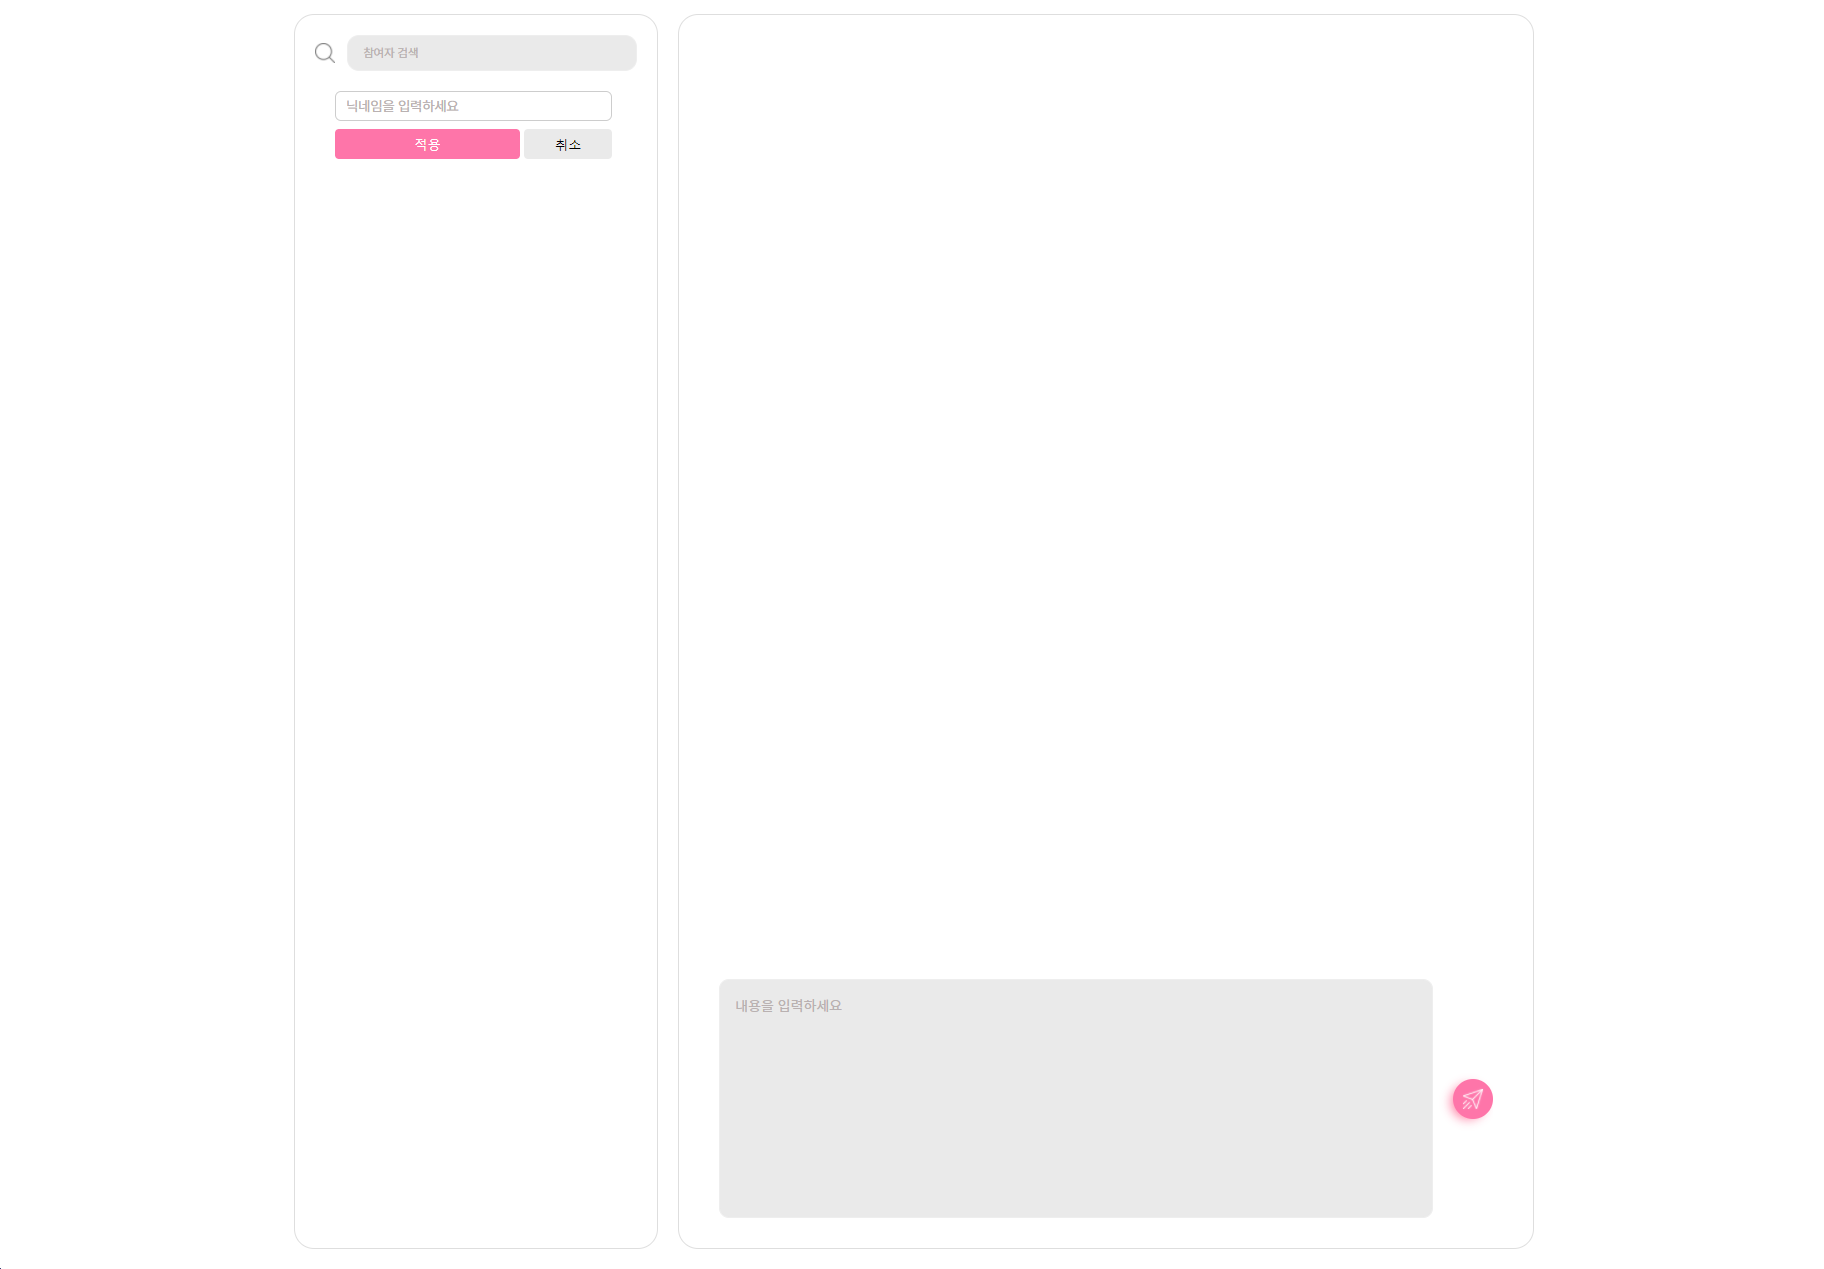
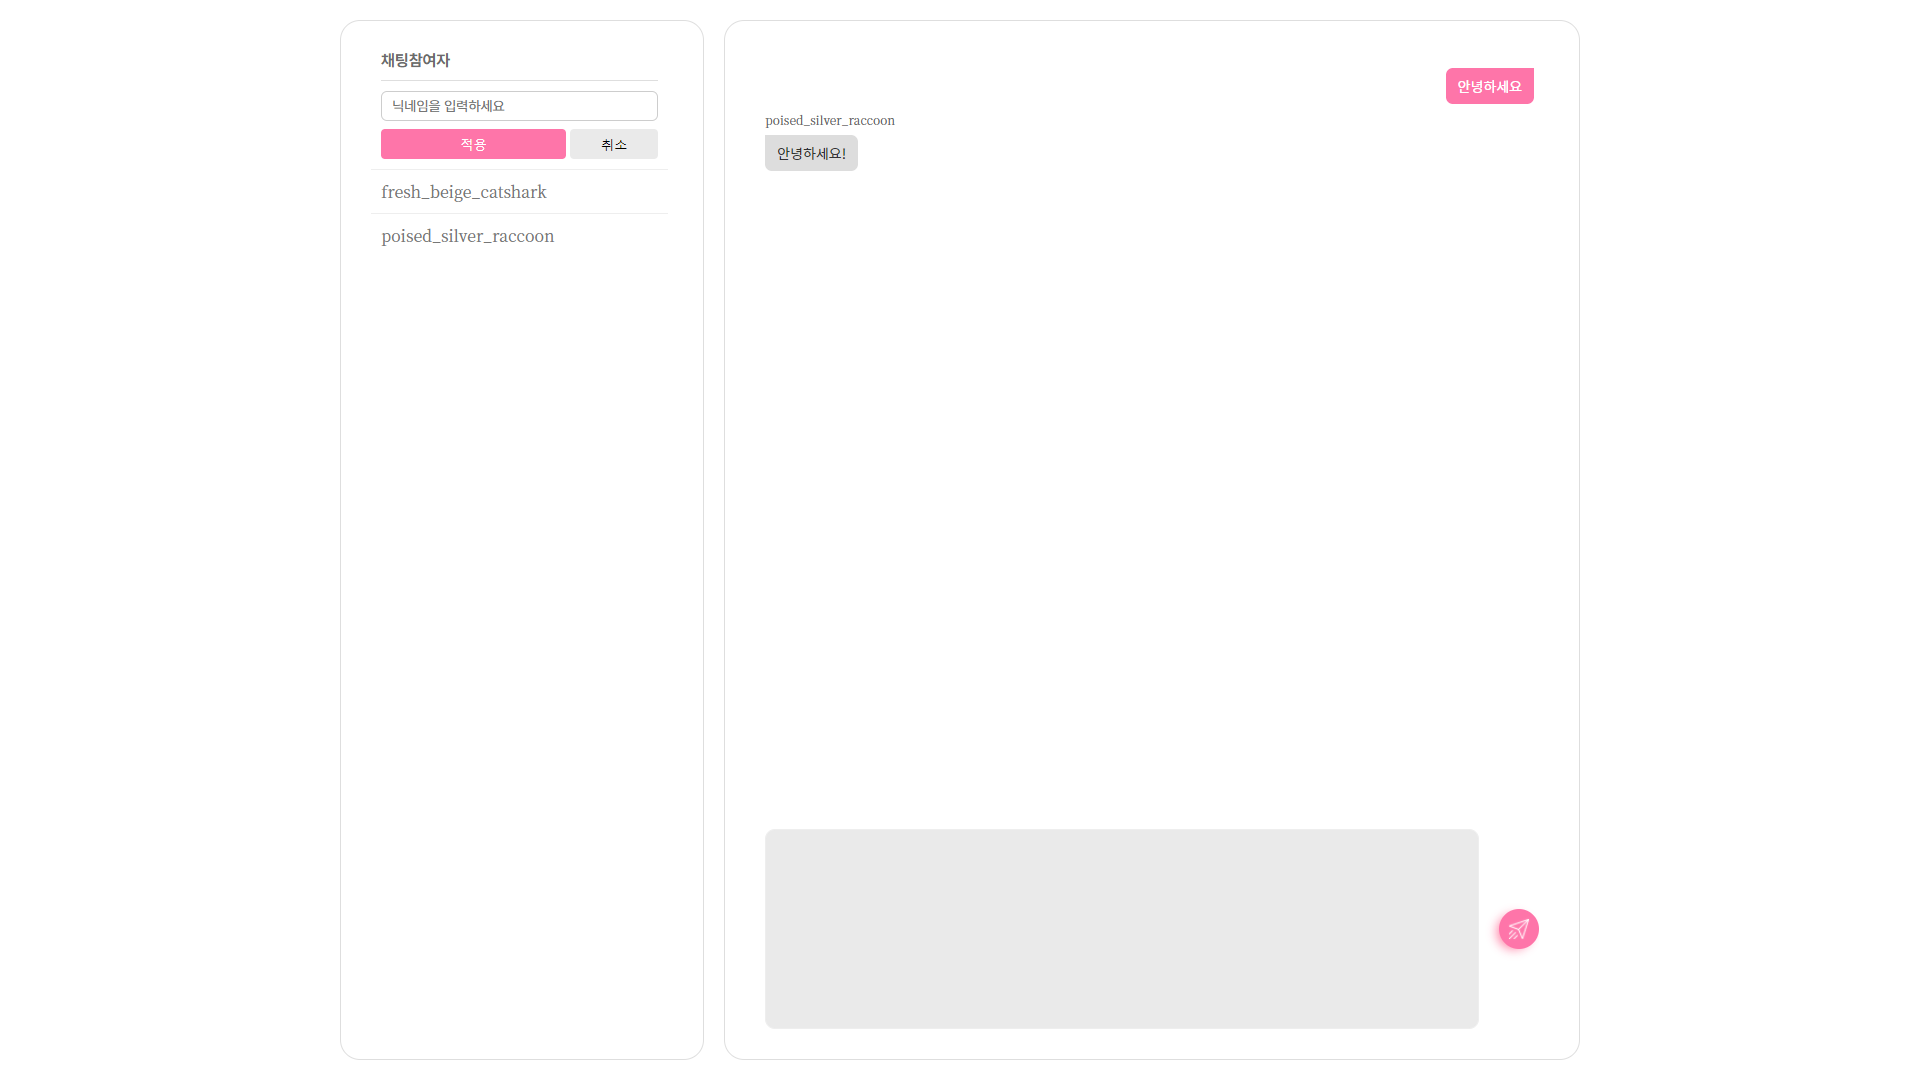
README 수정 및 css 일부 수정

diff --git a/public/css/index.css b/public/css/index.css
@@ -13,7 +13,7 @@ html{
 }
 ::-webkit-scrollbar-thumb {
   border-radius: 8px;
-  background-color: rgba(101, 190, 230, 0.3);
+  background-color: #ea397d38;
 }
 /*  웹킷(크롬, 사파리) button outline 제거 */
 textarea:focus {
@@ -129,7 +129,7 @@ header{
   width: auto;
 }
 #text>div>div{
-  font-size: 12px;
+  font-size: 14px;
   padding: 8px 12px;
   max-width: 40%;
   margin: 0.5em 0;

diff --git a/README.md b/README.md
@@ -35,11 +35,13 @@ programming: [김기현](https://github.com/kiheyunkim)
 
 ## feature
 
-1. 채팅자가 접속하면 이름은 램덤하게 생성됩니다.
+1. 채팅자가 접속하면 이름은 랜덤하게 생성됩니다.
     * unique-names-generator 모듈 사용
+    * 영문 단어 랜덤 조합이 기본 형태
 2. 예외 처리
-    * 다른 사용자의 접속해제, 접속, 등에 대해서 실시간으로 반영됩니다.
+    * 다른 사용자의 접속, 접속 해제 등에 대해서 실시간으로 반영
 3. 닉네임 변경 가능
+    - 새로고침 등으로 인한 접속해제 시 설정한 닉네임 초기화
 4. 모바일 화면 지원
 
 ---
@@ -52,6 +54,12 @@ programming: [김기현](https://github.com/kiheyunkim)
 
 ![](./screenshot/src3.PNG)
 
+![](./screenshot/src4.PNG)
+
+<img src="./screenshot/src5.PNG" style="zoom:50%;" /><img src="./screenshot/src6.PNG" style="zoom:50%;" />
+
+
+
 ---
 
 ## DB Scheme
@@ -63,7 +71,7 @@ No Database
 
 ## known issue
 
-1. 검색 구현은 제외됨.
+
 
 ---
 
